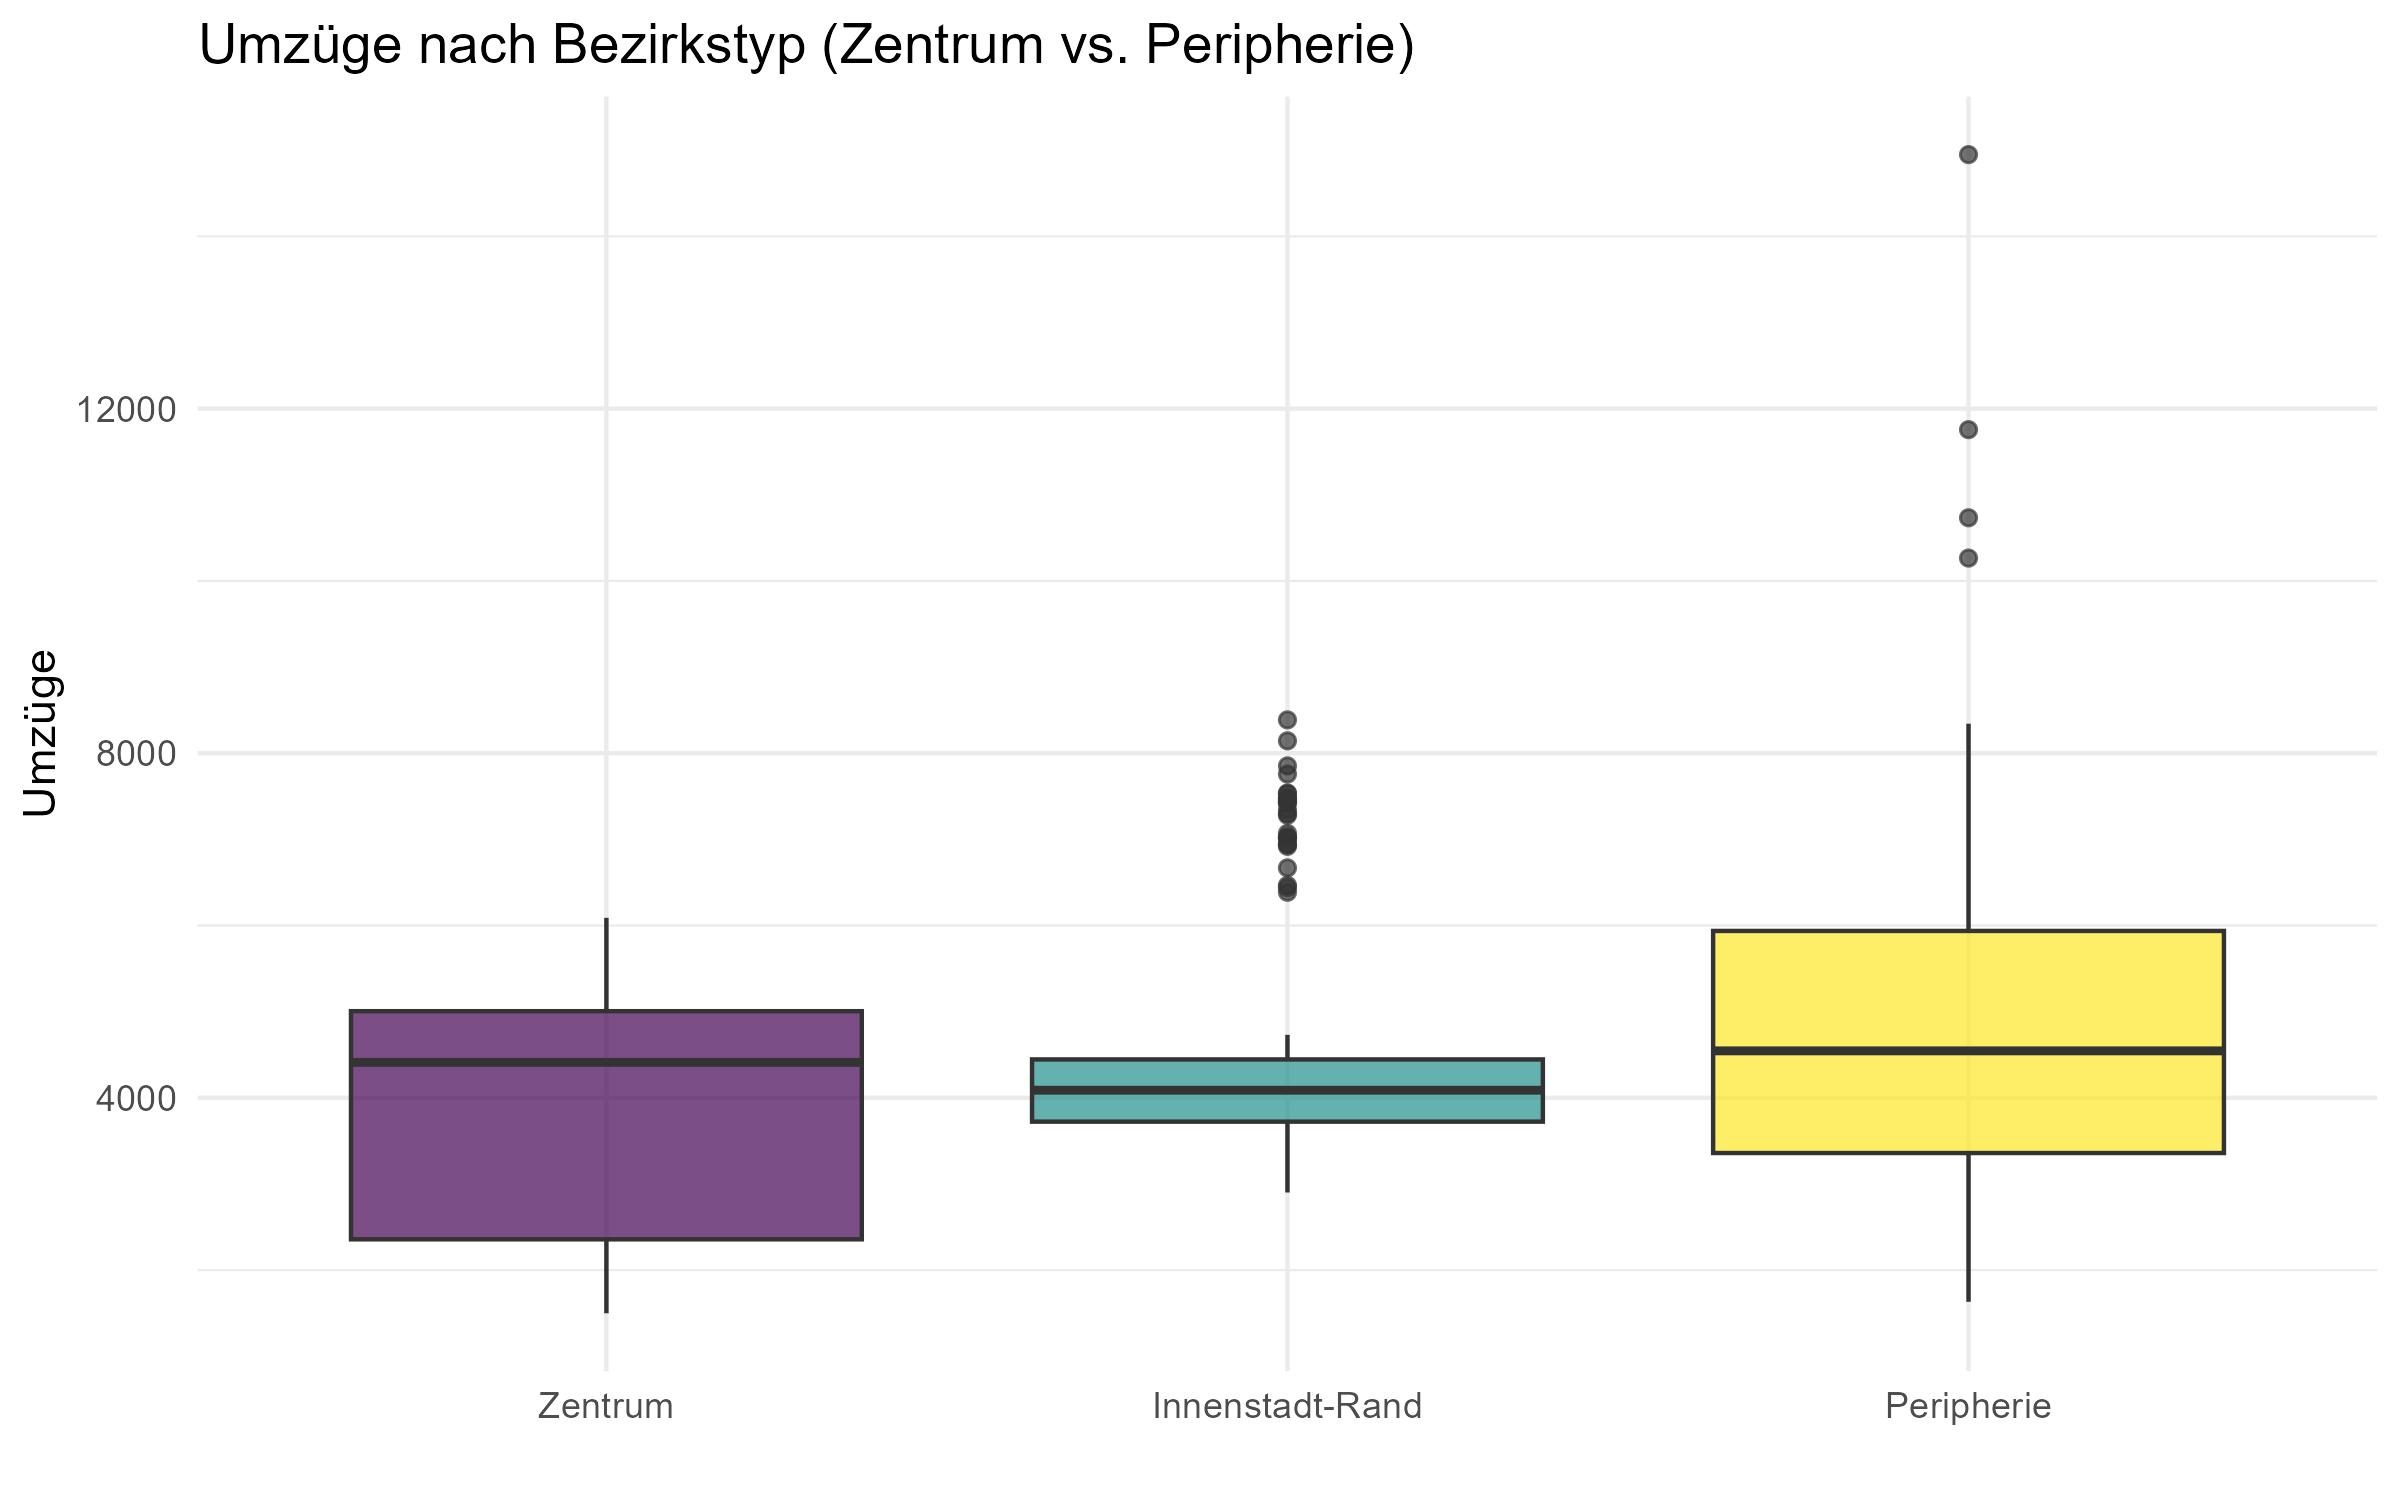
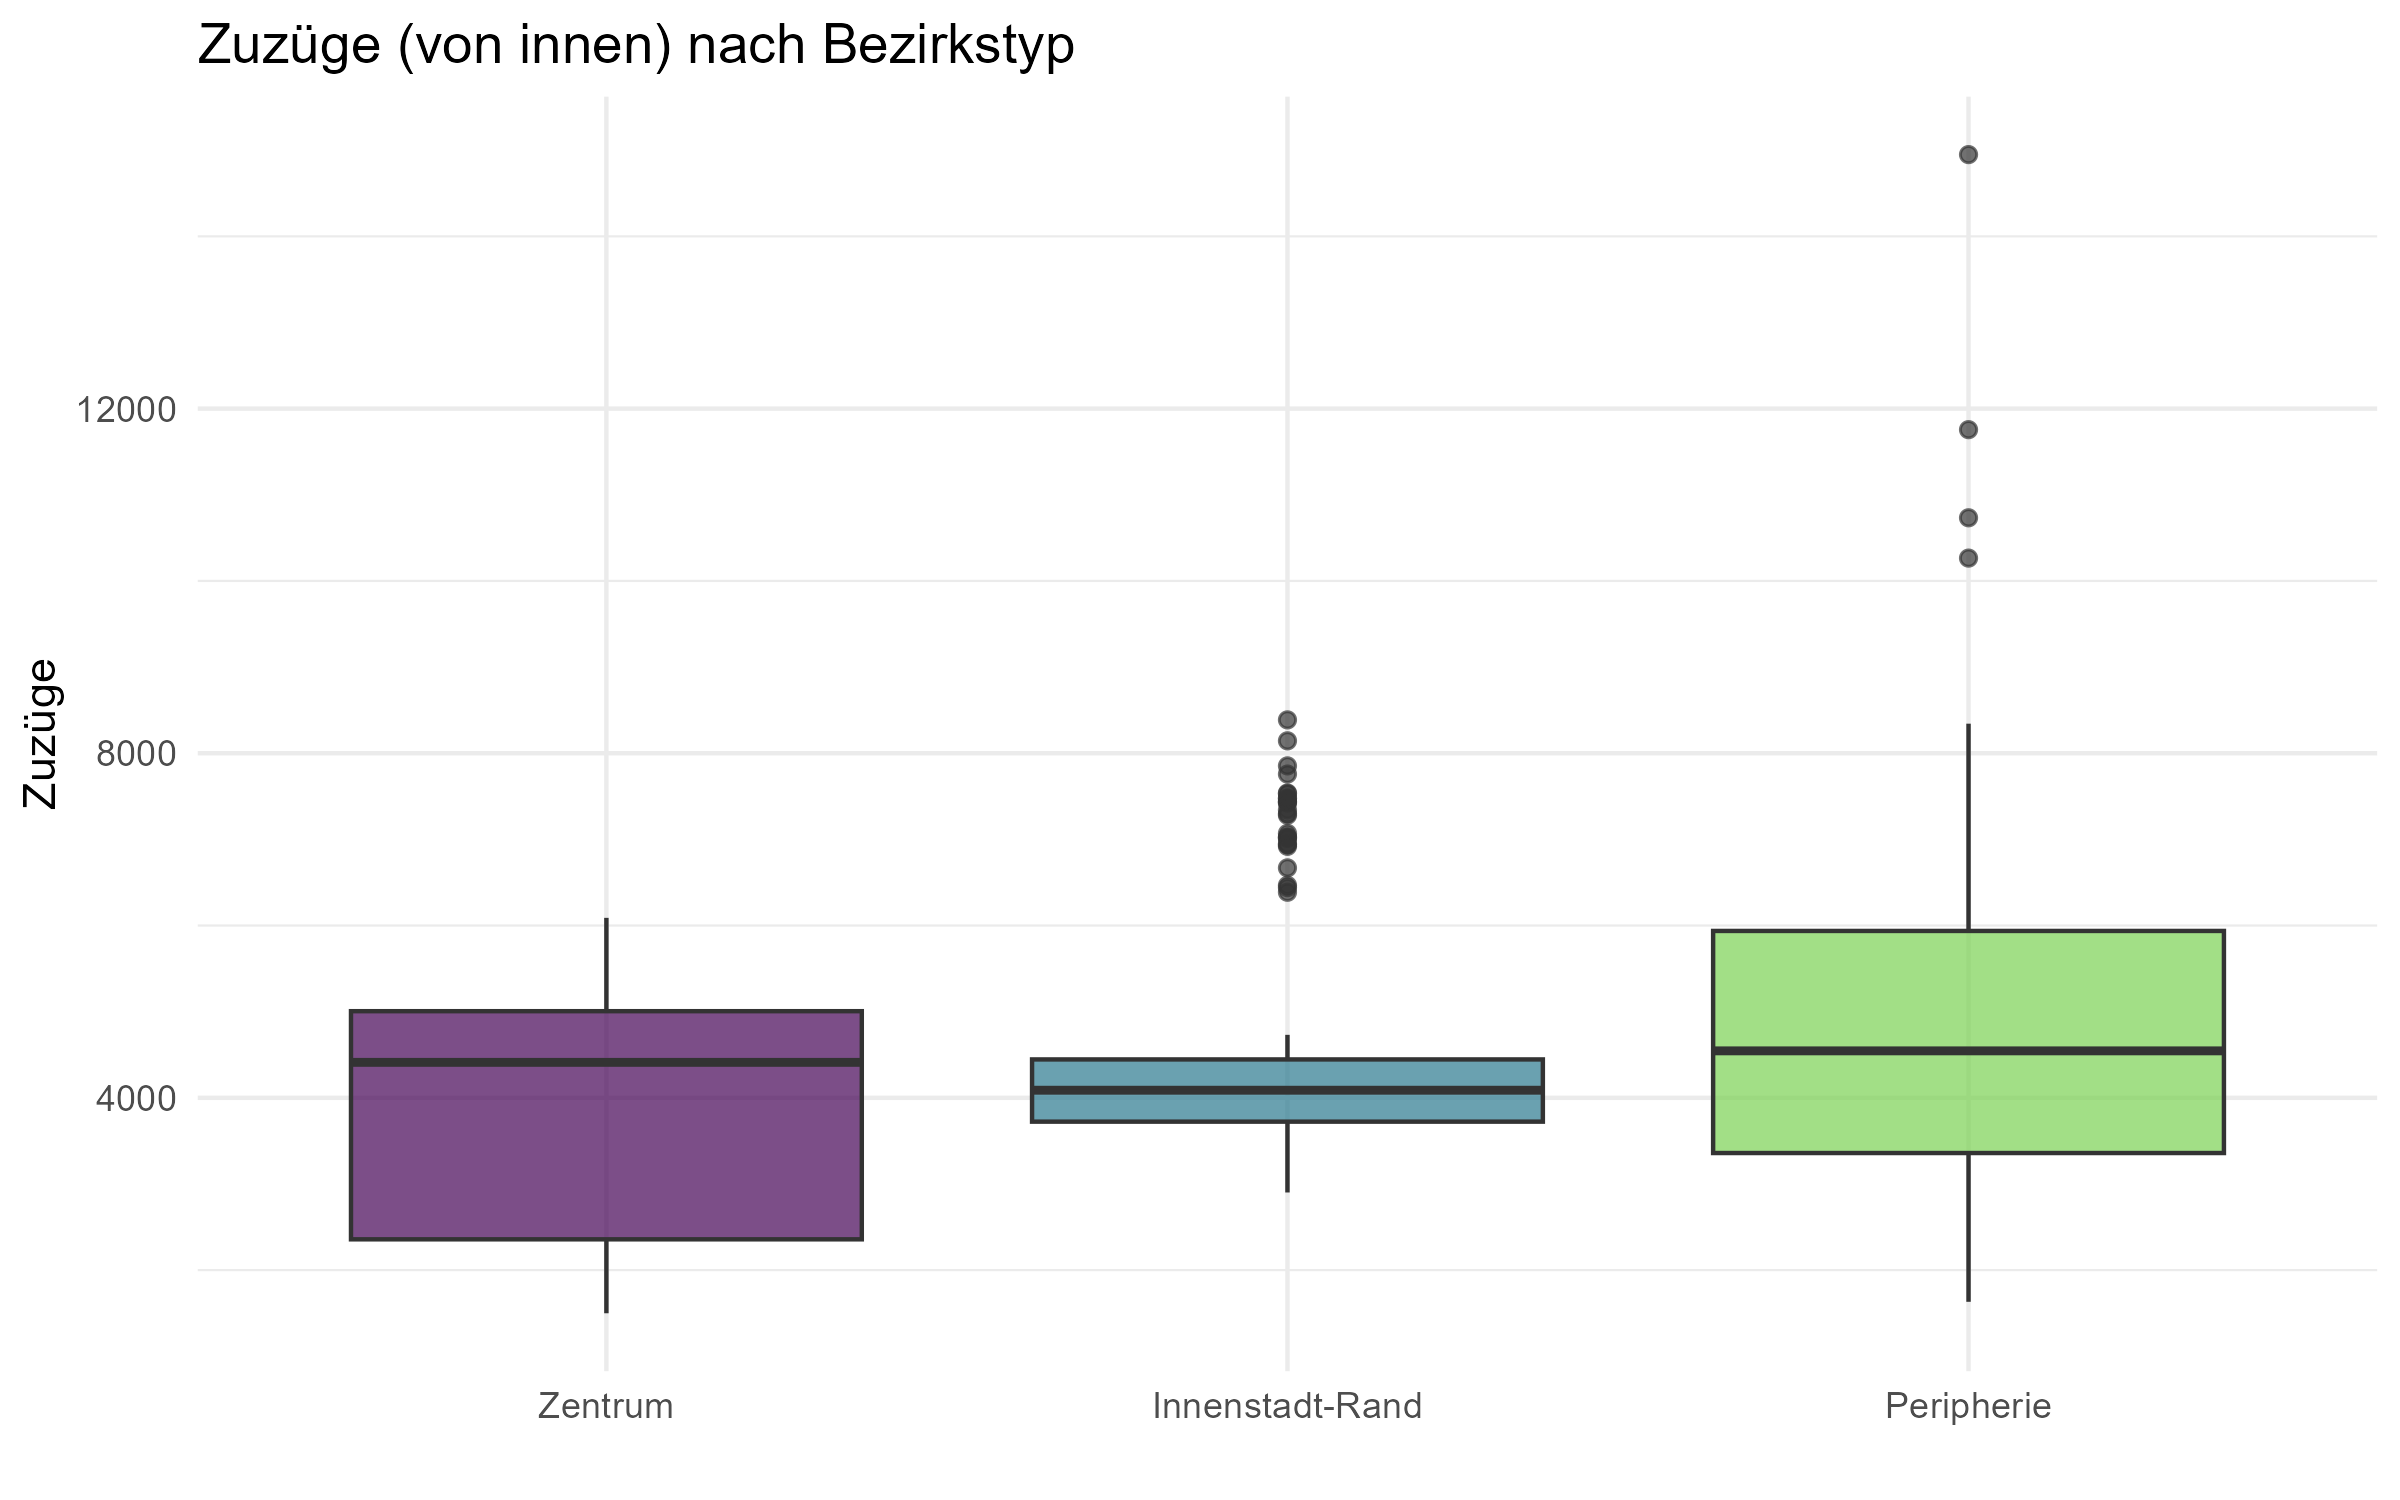
Boxplots Datenüberblick und Anhang richtig beschriftet und farben einheitlich gemacht

Changed region(s): [[0.6875, 0.6133, 0.9375, 0.7667], [0.0938, 0.0, 0.5938, 0.0613], [0.0, 0.4293, 0.0312, 0.552]]

diff --git a/presentation.html b/presentation.html
@@ -220,30 +220,7 @@ Heinz Calderón, Christian Lex, Dennis Ley, Haoyang Yang
 <td style="text-align: center;">Wegzug (Innen)</td>
 <td style="text-align: center;">Nichtdeutsch</td>
 <td style="text-align: center;">747</td>
-<<<<<<< HEAD
-</tr>
-</tbody>
-</table>
-</div>
-<div class="cell-output-display">
-<table class="caption-top">
-<caption>Säule 2: Bevölkerungsdichte (Auszug)</caption>
-<thead>
-<tr class="header">
-<th style="text-align: center;" data-quarto-table-cell-role="th">Jahr</th>
-<th style="text-align: center;" data-quarto-table-cell-role="th">Bezirk-Nr.</th>
-<th style="text-align: center;" data-quarto-table-cell-role="th">Einwohner</th>
-<th style="text-align: center;" data-quarto-table-cell-role="th">Dichte (Einw./km²)</th>
-</tr>
-</thead>
-<tbody>
-<tr class="odd">
-<td style="text-align: center;">2000</td>
-<td style="text-align: center;">1</td>
-<td style="text-align: center;">18228.9</td>
-=======
 <td style="text-align: center;">35263.3</td>
->>>>>>> d6447562c7f3de056362244544bd02cae4a7cc78
 <td style="text-align: center;">5761.902</td>
 </tr>
 </tbody>
